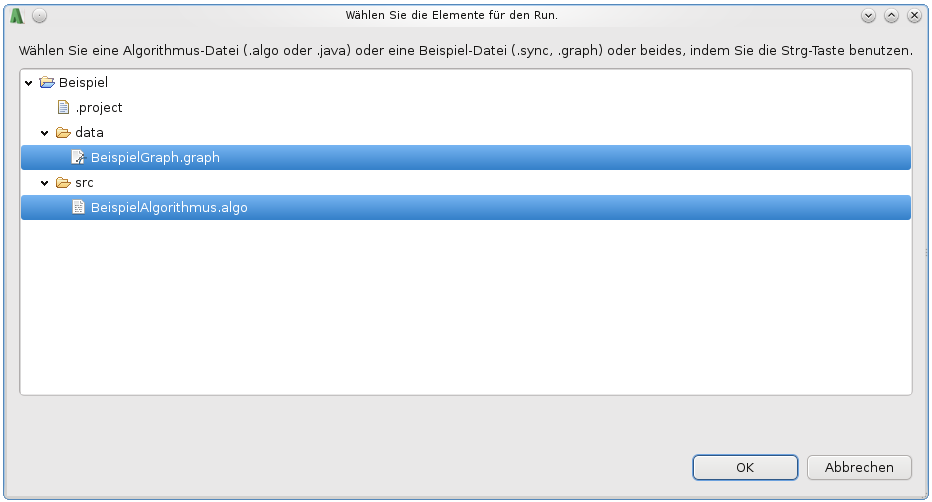
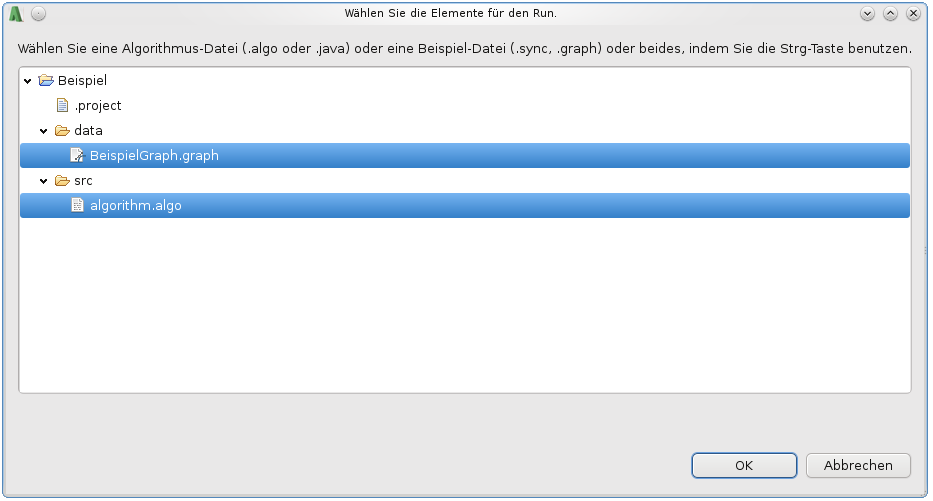
Erste Schritte-Seite übersetzt.
git-svn-id: https://vcs.informatik.uni-siegen.de/svn/algvistool/trunk@1100 57b514eb-d8df-4872-b74f-14c3cc28987e

Changed region(s): [[0.0, 0.0, 1.0, 1.0]]

diff --git a/alvis/help/de.unisiegen.informatik.bs.alvis.help/html/getting_started.html b/alvis/help/de.unisiegen.informatik.bs.alvis.help/html/getting_started.html
@@ -3,41 +3,70 @@
 <html>
 <head>
 	<meta http-equiv="Content-Type" content="text/html; charset=utf-8">
-	<title>The Run</title>
+	<title>First Steps</title>
 </head>
 
 <body>
-<h1>The Run</h1>
-The so called run is the core of Alvis. By default the left view shows the algorithm and the right view shows your example. You control the run with the buttons in the above bar.<br/>
+<h1>First Steps</h1>
+The purpose of Alvis is experimenting with everything you hear about algorithms in computer science and deepening your knowledge about it.<br/>
 <br>
-<table border="1" cellspacing="0">
-<thead>
-<tr>
-      <th ROWSPAN="1" COLSPAN="1"> <P CLASS="Para">Button</P></TH>
-	<th ROWSPAN="1" COLSPAN="1"> <P CLASS="Para">Tool-Tip</P></TH>
-      <th ROWSPAN="1" COLSPAN="1"> <P CLASS="Para">Description</P></th>
-</tr>
-</thead>
-  <tbody>
-	<tr>
-		<td align="center"><IMG align="middle" src="../images/run_play.png" width="16" height="16" border="0"></td>
-		<td>Start run</td>
-		<td>(Re)start the run with the given parameters und delete all existing decisions.</td>
-	</tr>
-	<TR>
-		<TD align="center"><IMG src="../images/run_previous.png" width="16" height="16" align="middle" border="0"></TD>
-		<TD>Previous Break Point</TD>
-		<TD>Takes the algorithm back to the previous break point.</TD>
-	</TR>	
-	<TR>
-		<TD align="center"><IMG src="../images/run_next.png" width="16" height="16" align="middle" border="0"></TD>
-		<TD>Next Break Point</TD>
-		<TD>Lets the algorithm advance to the next break point. Break points are the end of the lines with a ";" at the end.</TD>
-	</TR>
-
-  </tbody>
-</table>
+In order to do so, you can modify existing algorithms or write new one from scratch.<br/>
+First of all you have to create a new Alvis Project. Do so by <strong>clicking right in Package Explorer -> New -> Alvis Project</strong>.
+<br><br>
+<IMG src="../images/newProjectEN.png" width="495" height="422" border="0">
+<br><br>
+The Alvis Project Wizard appears. Let us call the new project "Example" and click Finish. The folders "src" and "data" are generated automatically in the project folder. "src" contains an empty algorithm file.
+We expand the folders "Example" and "src", after this the Package Explorer looks like this:
+<br><br><IMG src="../images/packageExplorerEN.png" width="496" height="387"border="0"><br><br>
+Now we double click on algorithm.algo. The empty Algorithm Editor opens and we paste this algorithm implementing a breadth first traversal: <!-- Is that correct?! Literal translation of "Breitentraversierung" -->
+<br><br/>
+<pre>
+main(Graph G, Vertex s) begin
+        for Vertex v in G.vertices: begin
+                v.color = "white",
+                v.distance = infty,
+                v.parentId = null,
+        end
+        s.color = "grey";
+        s.distance = 0,
+        Vertex Queue Q,
+        Q.enqueue(s),
+        while ! Q.isEmpty(): begin
+                Vertex u,
+                u = Q.dequeue(),
+                for Vertex v in u.adjacents:
+                        if v.color == "white": begin
+                                v.color = "grey";
+                                v.distance = u.distance + 1,
+                                v.parentId = u,
+                                Q.enqueue(v),
+                        end
+        end
+end</pre>
 <br/>
-If the algorithm is at a break point the current line is highlighted in orange. At a decision point the highlight is blue, a decision points demands a decision from the user.
+As you can see, all the key words are highlighted.<br>
+For executing the algorithm do not only need the algorithm itself, in fact we also need an example the algorithm uses. For this we create a random graph.
+<strong>Click right in the Package Explorer -> New -> Graph File</strong><br><br>
+<IMG src="../images/newGraphEN.png" width="659" height="508" border="0">
+<br><br>
+A Wizard similar to the Project Wizard appears. Let's call it "ExampleGraph" and click Finish. The empty Graph Editor opens. <br>
+We do not want to create a graph manually (how to do this is explained in the graph help), but rather generate one randomly. For this purpose we click the little tree symbol.<br><br>
+<IMG src="../images/treeEN.png" width="463" height="95"  border="0">
+<br><br>
+The New Random Graph Wizard appears.<br><br>
+<IMG src="../images/newRandomGraphEN.png" width="405" height="304" border="0"><br><br>
+We leave the values the way they are und continue by clicking "OK". A randomly generated tree shows up in the Graph Editor.<br>
+Now we have an algorithm and an example. In order to test the algorithm we click the play symbol in the upper left corner<br><br>
+<IMG src="../images/runEN.png" width="463" height="95" border="0">
+<br><br>
+We approve potential requests wether modified files should be saved. In the following dialog we expand the directories "src" and "data" and select the algorithm and the example graph by clicking them with the control key pressed.<br><br>
+<IMG src="../images/startRunDialogEN.png" width="769" height="424" border="0">
+<br><br>
+The Run starts after we click "OK". How to control it is explained in <a href="run.html">The Run</a>.
+Clicking the play button <IMG src="../images/run_play.png" width="16" height="16" border="0"> starts the algorithm. 
+The other two buttons let the already take a step backwards or forwards. By default, Alvis decides randomly, which node is the start node an in what order the nodes are visited. To control this, you have to create a so call 
+<a href="runfiles.html">Run File</a><br><br>
+
+Congratulations, you have just taken your first steps with Alvis!
 </body>
 </html>

diff --git a/alvis/help/de.unisiegen.informatik.bs.alvis.help/nl/de/html/getting_started.html b/alvis/help/de.unisiegen.informatik.bs.alvis.help/nl/de/html/getting_started.html
@@ -10,7 +10,7 @@
 <h1>Erste Schritte</h1>
 Der Sinn und Zweck von Alvis ist es, mit Allem, was bezüglich Algorithmen in der Informatik vorkommt, experimentieren zu können, um vermitteltes Wissen zu vertiefen.<br/>
 <br>
-Dazu kann man bestehende Algorithmen verändern oder ganz eigene Schreiben.<br/>
+Dazu kann man bestehende Algorithmen verändern oder ganz eigene schreiben.<br/>
 Um überhaupt mit etwas arbeiten zu können, muss man zuerst einmal ein neues Alvis Projekt anlegen. Hierzu klickt man im <strong>Package Explorer rechts -> Neu -> Alvis Projekt</strong>
 <br><br>
 <IMG src="../../../images/newProjectDE.png" width="488" height="339" border="0">
@@ -18,7 +18,7 @@ Um überhaupt mit etwas arbeiten zu können, muss man zuerst einmal ein neues Al
 Es erscheint der Alvis Projekt-Wizard. Wir nennen das Projekt "Beispiel" und klicken auf Fertigstellen. Automatisch wird das Beispiel mit den beiden Ordnern "src" und "data" angelegt. In "src" liegt nun schon eine leere
 Algorithmus-Datei. Wir klappen also "Beispiel" und "src" per Doppelklick auf, der Package Explorer sieht dann so aus:
 <br><br><IMG src="../../../images/packageExplorer.png" width="501" height="362" border="0"><br><br>
-Nun klicken wir doppelt auf algorithm.algo. Es öffnet sich der Algorithmus-Editor. Wir fügen folgenden Algorithmus einer Breitentraversierung ein:
+Nun klicken wir doppelt auf algorithm.algo. Es öffnet sich der leere Algorithmus-Editor. Wir fügen folgenden Algorithmus einer Breitentraversierung ein:
 <br><br/>
 <pre>
 main(Graph G, Vertex s) begin
@@ -50,13 +50,15 @@ Im <strong>Package Explorer klicken wir rechts auf data -> Neu -> Graph Datei</s
 <IMG src="../../../images/newGraphDE.png" width="740" height="449" border="0">
 <br><br>
 Ein ähnlicher Wizard wie für das Projekt erscheint. Wir nennen den Graphen "BeispielGraph" und klicken auf "Fertigstellen". Es öffnet sich der Editor für Graphen. <br>
-Wir wollen uns nicht lange mit der Erstellen eines Graphen beschäftigen (dies wird in der Hilfe für Graphen erklärt), sondern schnell einen zufälligen erzeugen. Dazu klicken wir auf das kleine Baum-Symbol <IMG src="../../../images/graph_layout_tree.png" width="16" height="16" align="left" border="0">. Es erscheint der Wizard, mit dem man einen neuen, zufälligen Graphen erstellt.<br><br>
+Wir wollen uns nicht lange mit der Erstellen eines Graphen beschäftigen (dies wird in der Hilfe für Graphen erklärt), sondern schnell einen zufälligen erzeugen. Dazu klicken wir auf das kleine Baum-Symbol.<br><br>
+<IMG src="../../../images/treeDE.png" width="467" height="94" border="0"><br><br>
+Es erscheint der Wizard, mit dem man einen neuen, zufälligen Graphen erstellt.<br><br>
 <IMG src="../../../images/newRandomGraphDE.png" width="407" height="302" border="0"><br><br>
 Wir lassen die Werte auf ihren Standardeinstellungen und fahren mit einem Klick auf "OK" fort. Ein zufälliger Baum erscheint im Graph-Editor.<br>
-Nun haben wir einen Algorithmus und ein Beispiel, auf den wir ihn anwenden können. Um den Algorithmus zu testen klick wir auf das kleine Play-Symbol oben links. <br><br>
+Nun haben wir einen Algorithmus und ein Beispiel, auf den wir ihn anwenden können. Um den Algorithmus zu testen klicken wir auf das kleine Play-Symbol oben links. <br><br>
 <IMG src="../../../images/startRunDE.png" width="477" height="124" border="0">
 <br><br>
-Eventuelle Nachfragen, ob veränderte Dateien gespeichert werden sollen, bestätigen wir. Im folgenden Dialog klappen wir die Verzeichnisse "src" und "data" auf und klick mit gedrückter Strg-Taste auf unser Beispiel und unseren Algorithmus. <br><br>
+Eventuelle Nachfragen, ob veränderte Dateien gespeichert werden sollen, bestätigen wir. Im folgenden Dialog klappen wir die Verzeichnisse "src" und "data" auf und klicken mit gedrückter Strg-Taste auf unser Beispiel und unseren Algorithmus. <br><br>
 <IMG src="../../../images/startRunDialogDE.png" width="932" height="502" border="0">
 <br><br>
 Nach einem Klick auf "OK" startet der Ablauf, auch Run genannt. Wie man diesen genau steuert, erfährt man in <a href="run.html">Der Ablauf</a>. Wenn wir nun auf den blauen Play-Button <IMG src="../../../images/run_play.png" width="16" height="16" border="0"> klicken, startet der Algorithmus. Mit den anderen beiden Buttons lassen wir ihn vor- und zurücklaufen. Standardmäßig ist Alvis so eingestellt, dass er zufällig wählt, welcher der Startknoten ist und in welcher Reihenfolge die Knoten abgearbeitet werden. Um dies zu beeinflussen, muss ein so genanntes <a href="runfiles.html">Run File</a> angelegt werden. <br><br>

diff --git a/alvis/plugins/de.unisiegen.informatik.bs.alvis.vm/src/de/unisiegen/informatik/bs/alvis/vm/DynaCode.java b/alvis/plugins/de.unisiegen.informatik.bs.alvis.vm/src/de/unisiegen/informatik/bs/alvis/vm/DynaCode.java
@@ -1,5 +1,5 @@
 /*
- * Copyright (c) 2011 Dominik Dingel
+ * Copyright (c) 2011 Sebastian Schmitz
  * Permission is hereby granted, free of charge, to any person obtaining a copy of
  * this software and associated documentation files (the "Software"), to deal in the
  * Software without restriction, including without limitation the rights to use, 

diff --git a/alvis/plugins/de.unisiegen.informatik.bs.alvis.vm/src/de/unisiegen/informatik/bs/alvis/vm/AlvisFileObject.java b/alvis/plugins/de.unisiegen.informatik.bs.alvis.vm/src/de/unisiegen/informatik/bs/alvis/vm/AlvisFileObject.java
@@ -33,7 +33,9 @@ class AlvisFileObject extends SimpleJavaFileObject {
 		this.sourceCode = source;
 
 	}
-
+	/**
+	 * returns the source code held by this opbejct
+	 */
 	@Override
 	public CharSequence getCharContent(boolean ignoreEncodingErrors)
 			throws IOException {
